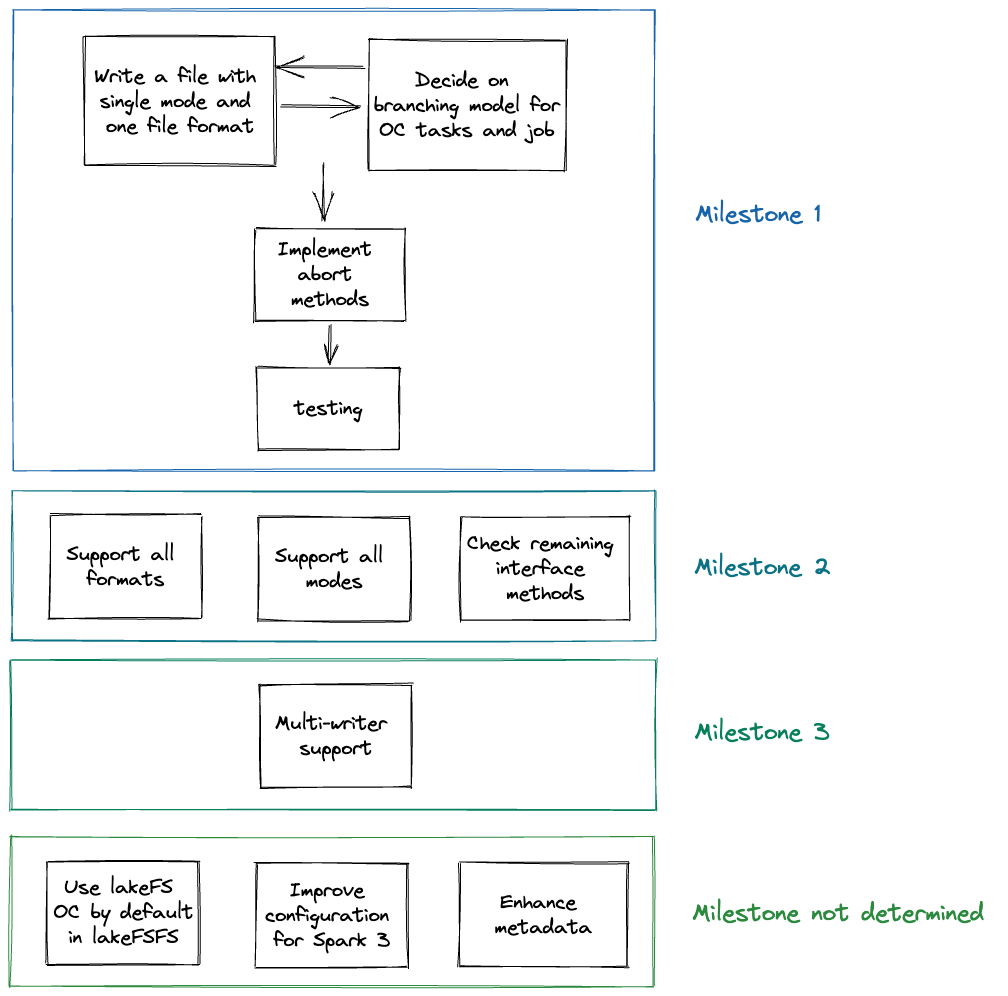
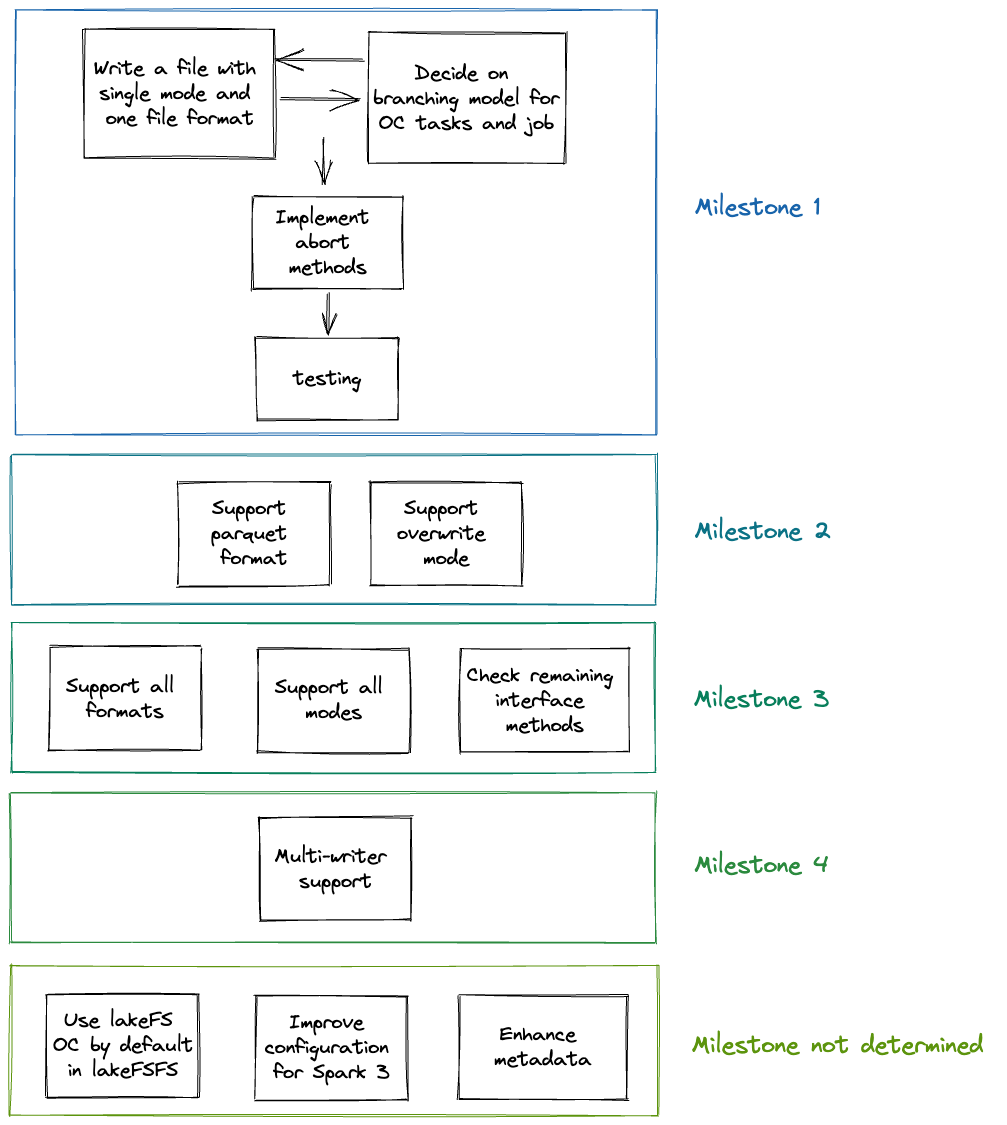
PR changes

Changed region(s): [[0.0, 0.0, 0.9851, 0.996], [0.6773, 0.7159, 0.8312, 0.7781], [0.6773, 0.5602, 0.8312, 0.6536]]

diff --git a/design/open/spark-outputcommitter/lakeFS-output-committer-execution-plan.md b/design/open/spark-outputcommitter/lakeFS-output-committer-execution-plan.md
@@ -1,34 +1,4 @@
 # LakeFS Output Committer - Execution Plan
-<<<<<<< HEAD
-[LakeFS Output Committer Proposal](https://github.com/treeverse/lakeFS/blob/master/design/open/spark-outputcommitter/committer.md)
-
-## Overview
-Implementing lakeFS Output Committer meaning implementing the class [FileOutputCommitter](https://hadoop.apache.org/docs/stable/api/org/apache/hadoop/mapreduce/lib/output/FileOutputCommitter.html) and using lakeFS client to create/merge branches as part of setup and commit job/tasks (this is the [sample flow](https://github.com/treeverse/lakeFS/blob/master/design/open/spark-outputcommitter/committer.md#sample-flow))
-
-### Milestone 1
-The first milestone is focused on writing a file with single mode (probably text) and one file format (probably append).
-At this stage we'll implement `commit`, `setup`, `abort` class methods.
-
-### Milestone 2
-This milstone is focused on writing all file formats, in all modes. Also, implement the relevant remaining class methods.
-
-The relevant file formats are:
-* Text
-* CSV
-* Parquet *
-* ORC
-* JSON
-
-The relevant modes are:
-* ErrorIfExists (default)
-* Append
-* Overwrite
-* Ignore
-
-### Milestone 3
-This milstone is focused on multiwriter support, first for overwrite save mode and then for other save modes.
-
-### Other
 
 [LakeFS Output Committer Proposal](https://github.com/treeverse/lakeFS/blob/master/design/open/spark-outputcommitter/committer.md)
 
@@ -45,8 +15,8 @@ Moreover, as part of this milestone we'll add testing (the way need to be determ
 ### Milestone 2
 
 This milestone is focused on:
- - writing a file in overwrite mode + testing ([#4517](https://github.com/treeverse/lakeFS/issues/4517), [#4528](https://github.com/treeverse/lakeFS/issues/4528))
- - writing a file in parquet file format + testing ([#4518](https://github.com/treeverse/lakeFS/issues/4518), [#4527](https://github.com/treeverse/lakeFS/issues/4527))
+- writing a file in overwrite mode + testing ([#4517](https://github.com/treeverse/lakeFS/issues/4517), [#4528](https://github.com/treeverse/lakeFS/issues/4528))
+- writing a file in parquet file format + testing ([#4518](https://github.com/treeverse/lakeFS/issues/4518), [#4527](https://github.com/treeverse/lakeFS/issues/4527))
 
 These should be two separate tasks.
 
